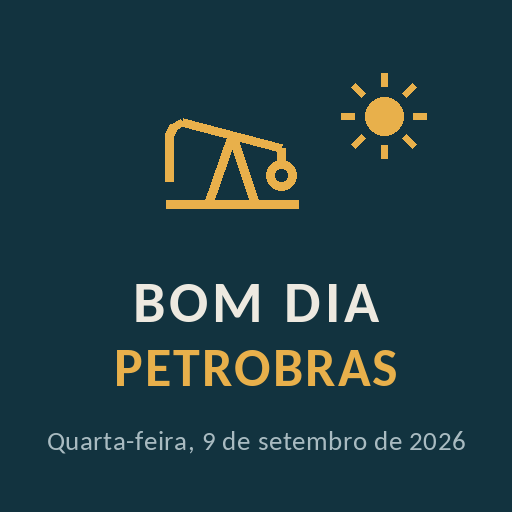
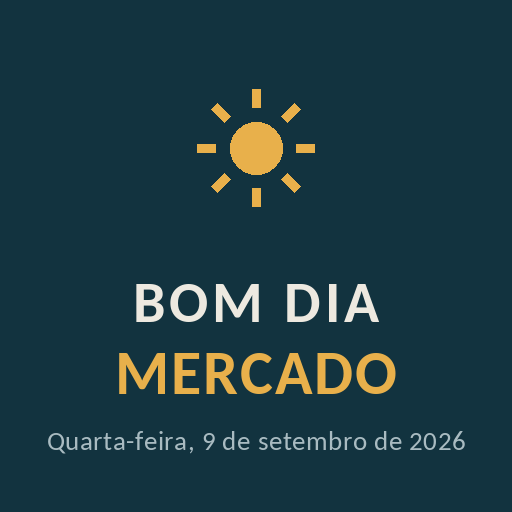
Add files via upload

diff --git a/index.html b/index.html
@@ -3,11 +3,11 @@
 <head>
 <meta charset="utf-8">
 <meta name="viewport" content="width=device-width, initial-scale=1">
-<title>Bom Dia Petrobras — 9 de setembro de 2026</title>
+<title>Bom Dia Mercado — 9 de setembro de 2026</title>
 <meta name="description" content="Juro longo abaixo de 14%, dólar sob R$ 5,10 e Ibovespa perto dos 190 mil, com o trade eleitoral descolado da pressão externa.">
 <meta property="og:type" content="article">
-<meta property="og:site_name" content="Bom Dia Petrobras">
-<meta property="og:title" content="Bom Dia Petrobras — 9 de setembro de 2026">
+<meta property="og:site_name" content="Bom Dia Mercado">
+<meta property="og:title" content="Bom Dia Mercado — 9 de setembro de 2026">
 <meta property="og:description" content="Juro longo furou os 14%, dólar sob R$ 5,10 e Ibovespa perto dos 190 mil, com o petróleo encostando em US$ 100.">
 <meta property="og:url" content="https://mauriciopiragibe.github.io/Bom-Dia-Mercado/">
 <meta property="og:locale" content="pt_BR">
@@ -48,8 +48,6 @@
   .masthead{display:flex;align-items:center;justify-content:space-between;gap:.75rem;
     border-bottom:1px solid rgba(237,233,224,.22);padding-bottom:.7rem;}
   .logo{font-weight:700;font-size:1.15rem;text-transform:uppercase;letter-spacing:.07em;}
-  .marca{display:flex;align-items:baseline;gap:.85rem;min-width:0;}
-  .rig{flex:none;width:1.75rem;height:1.75rem;color:#E8B04B;align-self:flex-end;position:relative;top:-.22rem;}
   .sun{flex:none;width:2rem;height:2rem;color:#E8B04B;}
   .date{font-size:.78rem;color:#A9BBC1;letter-spacing:.01em;margin:.55rem 0 0;}
   h1{
@@ -119,18 +117,7 @@
 
 <header>
   <div class="masthead">
-    <div class="marca">
-      <div class="logo">Bom Dia Petrobras</div>
-      <svg class="rig" viewBox="0 0 48 48" aria-hidden="true" fill="none" stroke="currentColor" stroke-width="2.6" stroke-linecap="round" stroke-linejoin="round">
-        <path d="M4 43h40"/>
-        <path d="M17 43l7-21 7 21"/>
-        <path d="M9 18l30 8"/>
-        <path d="M9 18c-4 1.5-5 4.5-4 7.5"/>
-        <path d="M5 25.5V36"/>
-        <path d="M39 26v3.5"/>
-        <circle cx="39" cy="34" r="4.5"/>
-      </svg>
-    </div>
+    <div class="logo">Bom Dia Mercado</div>
     <svg class="sun" viewBox="0 0 48 48" aria-hidden="true" fill="none" stroke="currentColor" stroke-width="2.4" stroke-linecap="round">
       <circle cx="24" cy="24" r="8.5" fill="currentColor" stroke="none"/>
       <path d="M24 4.5v5M24 38.5v5M4.5 24h5M38.5 24h5M10.2 10.2l3.5 3.5M34.3 34.3l3.5 3.5M37.8 10.2l-3.5 3.5M13.7 34.3l-3.5 3.5"/>
